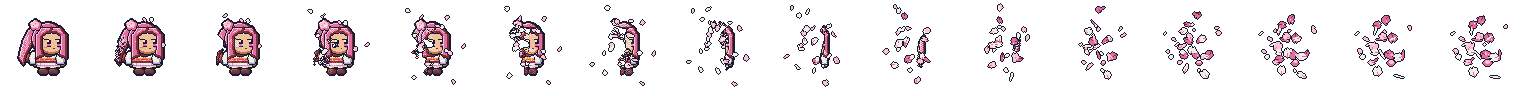
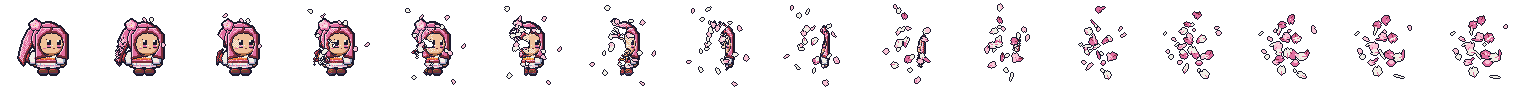
Sakura: shared female_face helper (heart-shaped face)
female_face(c, iris, blush, between) draws the cast's female head: full-width
brow and cheeks tapering to a small soft pointed chin (row widths documented in
its docstring), a skin ramp with the chin's shadow on the neck, slightly larger
eyes with a lash pixel, small mouth and cheek blush. Sakura uses it in every
frame; her side locks follow the jaw so they cover its outer edge. Eden can reuse it.

Claude-Session: https://claude.ai/code/session_01J8LgTLVYzThXjNSRVhWqep

diff --git a/tools/sprites/generate.py b/tools/sprites/generate.py
@@ -631,6 +631,54 @@ def flame_tongue(c: Canvas, root, ctrl, tip, phase, side=1, wide=6.0, mid=32):
 HAIR_FLOW = [0, 1, 2, 1]  # px a lock blows back per tick (period 4, so idle and walk loop)
 
 
+## The cast's female face (Sakura; Eden reuses it): a heart / V shape, full-width brow and cheeks tapering to a small soft
+## pointed chin. Pixel widths per art row, centred on x = FEMALE_FACE_CX (rows 15..36, same box as FACE).
+FEMALE_FACE_CX = 35
+FEMALE_FACE_ROWS = {15: 15, 16: 19, 17: 21, 18: 23, 19: 25, 20: 25, 21: 25, 22: 25, 23: 25, 24: 25, 25: 25, 26: 25,
+                    27: 23, 28: 23, 29: 21, 30: 21, 31: 19, 32: 19, 33: 17, 34: 15, 35: 11, 36: 5}
+
+
+def female_face(c: Canvas, iris=PINK, blush=PINK, between=None) -> None:
+    """The shared female head and face. Draws, in this order: the skin shape + shading + neck shadow, then
+    `between()` (call it to draw the hair that overlaps the face), then eyes, lashes, blush and mouth.
+
+    Pixel profile, rows y = 15..36, width centred on x = 35 (left x = 35 - w // 2, right x = 35 + w // 2):
+      brow    y15 15 | y16 19 | y17 21 | y18 23
+      cheeks  y19..y26 25 (x 23..47, the full FACE width)
+      jaw     y27 23 | y28 23 | y29 21 | y30 21 | y31 19 | y32 19 | y33 17 | y34 15 | y35 11 | y36 5  (soft pointed chin)
+    That is ~2-3 px narrower per side than the old rounded box (FACE, radius 8) at chin level (y34: 19 -> 15 wide).
+    Skin ramp: WHITE glint (nose bridge) / SKIN / SKIN_D (right edge and lower contour, the whole chin row) / BROWN (the
+    shadow under the chin cast on the neck, rows y37). Eyes: big_eyes, 4 px wide, 8 rows (y22..29, one row taller than
+    the rest of the cast), `iris` colour, a one-pixel lash at each eye's top outer corner (y21); blush 3 px at y30
+    (x 27..29 and 42..44) in `blush`; mouth 2 px MAROON at MOUTH (37, 30)."""
+    cx = FEMALE_FACE_CX
+
+    def span(y):
+        w = FEMALE_FACE_ROWS[y]
+        return cx - w // 2, cx + w // 2
+
+    def inside(x, y):
+        return y in FEMALE_FACE_ROWS and span(y)[0] <= x <= span(y)[1]
+
+    c.part(lambda d, f: [d.rectangle((span(y)[0], y, span(y)[1], y), f) for y in FEMALE_FACE_ROWS], SKIN, shade=False)
+    for y in FEMALE_FACE_ROWS:
+        for x in range(span(y)[0], span(y)[1] + 1):
+            if y >= 35 or (y >= 18 and (not inside(x + 1, y) or not inside(x + 1, y + 1))):
+                c.dot(x, y, SKIN_D)  # shade: right edge, lower-right contour, the chin
+    c.dot(36, 27, WHITE)  # glint on the nose bridge
+    c.flat(R((cx - 3, 37, cx + 3, 37)), SKIN_D)  # the chin's shadow falling on the neck: two tones
+    c.flat(R((cx - 1, 37, cx + 1, 37)), BROWN)
+    if between:
+        between()
+    big_eyes(c, EYES_Y, EYES_X, iris, h=7)
+    if not KO:
+        c.dot(EYES_X[0] - 1, EYES_Y - 1, OUTLINE)  # lashes: one pixel at the top outer corner of each eye
+        c.dot(EYES_X[1] + 4, EYES_Y - 1, OUTLINE)
+    c.flat(R((27, 30, 29, 30)), blush)
+    c.flat(R((42, 30, 44, 30)), blush)
+    c.flat(R((MOUTH[0], MOUTH[1], MOUTH[0] + 1, MOUTH[1])), MAROON)
+
+
 def sakura(step=None, t=0):
     """Blossom: a cool-eyed girl in a white kimono with wide sleeves, red obi tied in a bow at the back; pink hair
     parted in the middle, curtains framing her face, and a long ponytail tied with a cherry blossom that sways
@@ -682,32 +730,23 @@ def sakura(step=None, t=0):
                (9 - wave(3, 2), 46), (12 - wave(2, 1.5), 38), (15 - wave(1, 1), 28), (19, 17)]), PINK)
     up.flat(L([(12, 17), (10 - wave(1, 0.5), 24)], 1), PINK_L)  # its sheen: one short lit streak, the rest is the part's own shading
     up.part(E((16, 5, 48, 37)), PINK)  # hair
-    # a soft, narrow jaw: the full-width brow tapers into a smaller rounded chin
-    up.part(lambda d, f: (d.rounded_rectangle((FACE[0], FACE[1], FACE[2], 29), FACE_R, f),
-                          d.ellipse((FACE[0] + 1, 19, FACE[2] - 1, FACE[3] - 1), f)), SKIN)
-    # middle part: two curtains and two long side locks, mirrored about the face's centre line
-    mid = (FACE[0] + FACE[2]) // 2
-    curtain = [(mid, 10), (mid + 9, 9), (mid + 13, 14), (mid + 14, 23), (mid + 12, 23), (mid + 11, 19), (mid + 6, 15),
-               (mid + 1, 14)]  # sweeps off the forehead
-    drift = wave(2, 0.5)  # the side locks' ends drift with the breeze
-    lock = [(mid + 10, 16), (mid + 15, 16), (mid + 16 - drift, 40), (mid + 9 - drift, 37), (mid + 10, 29)]  # swings in over the cheek, narrowing the jaw
-    for side in (1, -1):  # each curtain and its lock as one shape, so no line where the lock meets the curtain
-        c_pts, l_pts = ([(mid + side * (x - mid), y) for x, y in pts] for pts in (curtain, lock))
-        up.part(lambda d, f, c_pts=c_pts, l_pts=l_pts: (d.polygon(c_pts, f), d.polygon(l_pts, f)), PINK)  # shaded like the ponytail
-        up.flat(L([(mid + side * 6, 11), (mid + side * 10, 14)], 1), PINK_L)  # sheen: short, light from the top
-    up.flat(L([(mid, 8), (mid, 13)], 1), MAROON)  # the parting
-    up.part(lambda d, f: [d.ellipse((x - 2, y - 2, x + 2, y + 2), f) for x, y in
-                          ((19, 4), (22, 6), (21, 9), (17, 9), (16, 6))], PINK_L)  # cherry blossom tying the ponytail
-    up.dot(19, 7, YELLOW)
-    big_eyes(up, EYES_Y, EYES_X, PINK, h=6)
-    if not KO:
-        for x, out in ((29, -1), (39, 4)):  # calm lids, lashes flicking out at the outer corners
-            up.flat(R((x, 21, x + 3, 21)), OUTLINE)
-            up.dot(x + out, 21, OUTLINE)
-            up.dot(x + out + (1 if out > 0 else -1), 20, OUTLINE)
-    up.flat(R((BLUSH[0] + 1, BLUSH[2], BLUSH[0] + 3, BLUSH[2])), PINK)  # pink blush, kept on the narrower cheeks
-    up.flat(R((BLUSH[1] - 3, BLUSH[2], BLUSH[1] - 2, BLUSH[2])), PINK)
-    up.flat(R((MOUTH[0], MOUTH[1], MOUTH[0] + 1, MOUTH[1])), MAROON)  # small mouth
+    def front_hair():
+        # middle part: two curtains and two long side locks, mirrored about the face's centre line
+        mid = (FACE[0] + FACE[2]) // 2
+        curtain = [(mid, 10), (mid + 9, 9), (mid + 13, 14), (mid + 14, 23), (mid + 12, 23), (mid + 11, 19), (mid + 6, 15),
+                   (mid + 1, 14)]  # sweeps off the forehead
+        drift = wave(2, 0.5)  # the side locks' ends drift with the breeze
+        lock = [(mid + 10, 16), (mid + 15, 16), (mid + 16 - drift, 40), (mid + 7 - drift, 38), (mid + 11, 32), (mid + 13, 26)]  # swings in over the cheek, narrowing the jaw
+        for side in (1, -1):  # each curtain and its lock as one shape, so no line where the lock meets the curtain
+            c_pts, l_pts = ([(mid + side * (x - mid), y) for x, y in pts] for pts in (curtain, lock))
+            up.part(lambda d, f, c_pts=c_pts, l_pts=l_pts: (d.polygon(c_pts, f), d.polygon(l_pts, f)), PINK)  # shaded like the ponytail
+            up.flat(L([(mid + side * 6, 11), (mid + side * 10, 14)], 1), PINK_L)  # sheen: short, light from the top
+        up.flat(L([(mid, 8), (mid, 13)], 1), MAROON)  # the parting
+        up.part(lambda d, f: [d.ellipse((x - 2, y - 2, x + 2, y + 2), f) for x, y in
+                              ((19, 4), (22, 6), (21, 9), (17, 9), (16, 6))], PINK_L)  # cherry blossom tying the ponytail
+        up.dot(19, 7, YELLOW)
+
+    female_face(up, iris=PINK, blush=PINK, between=front_hair)
     return low, up
 
 
